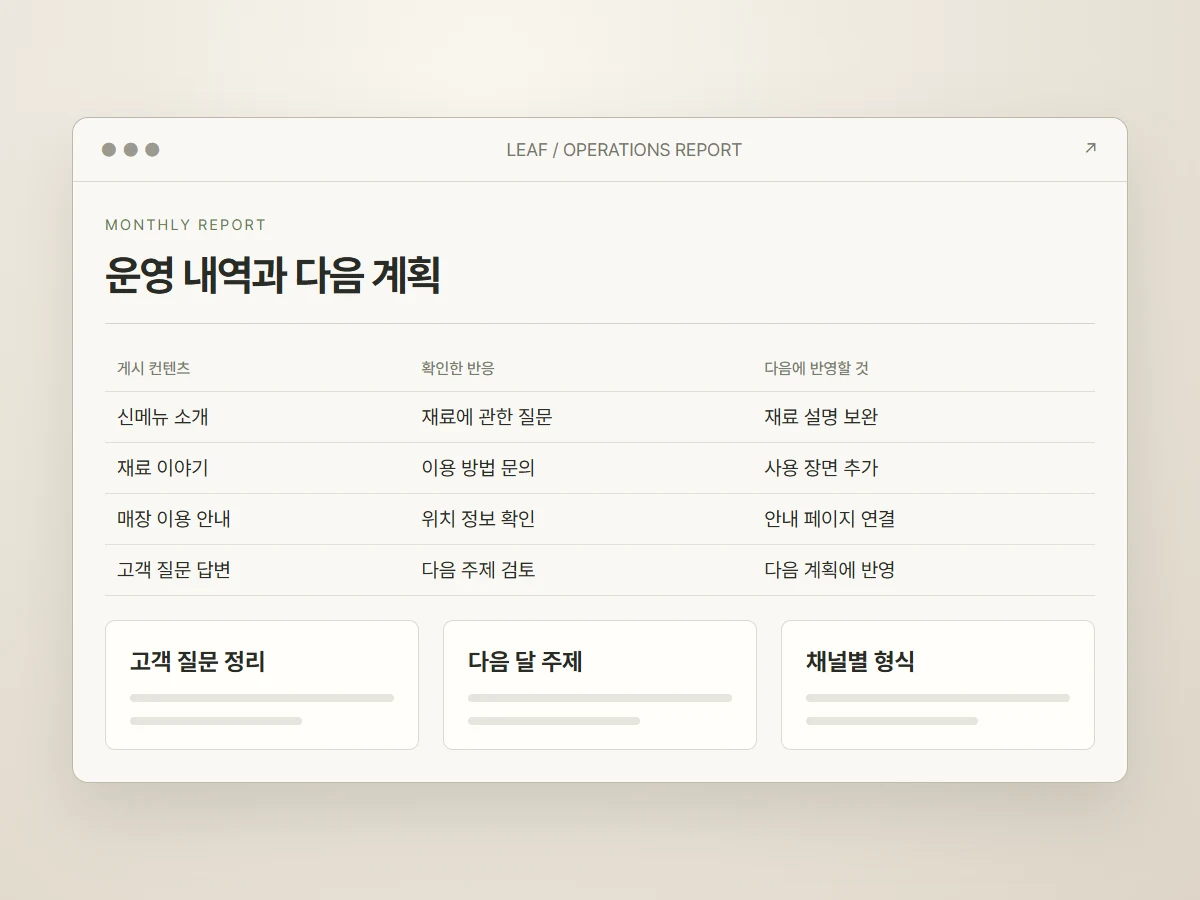
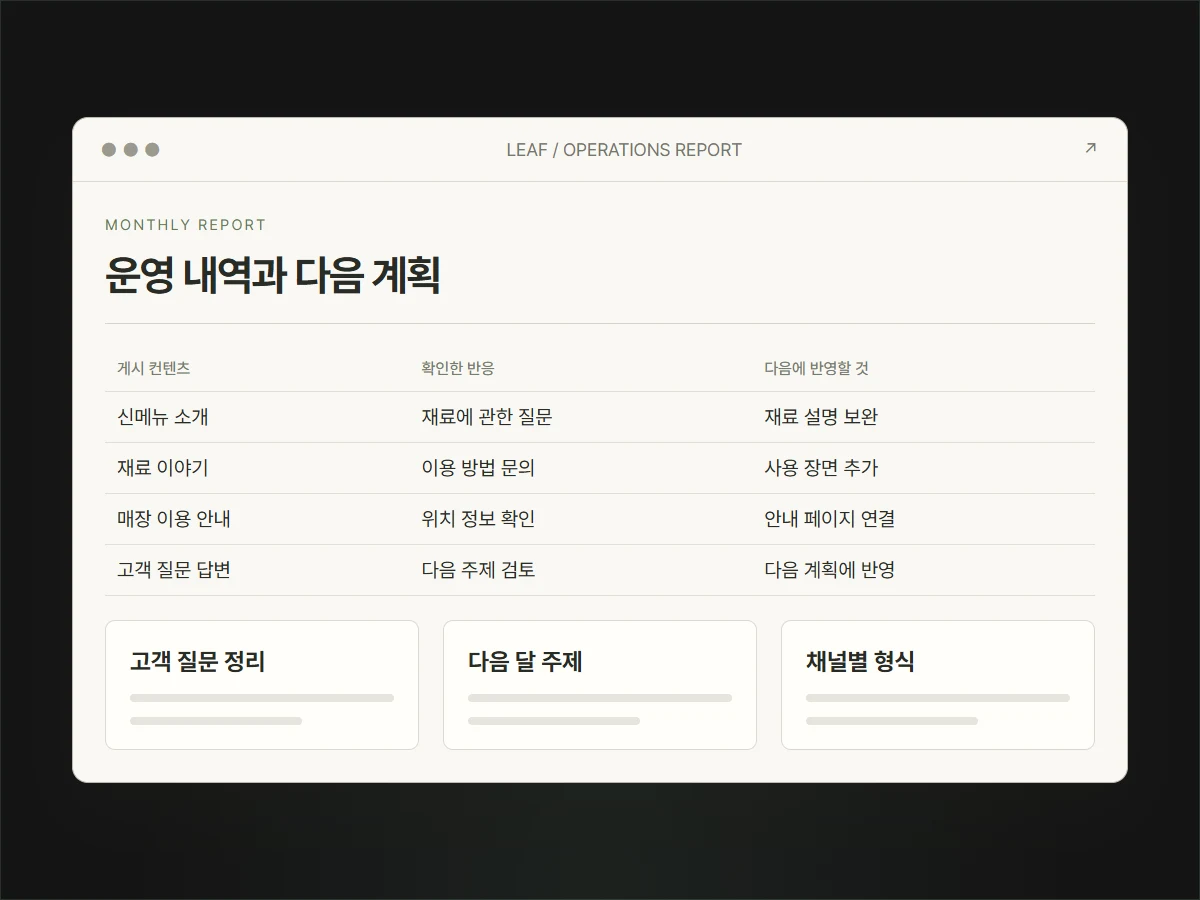
Fix marketing result surfaces and hero stage navigation

diff --git a/components/marketing/home.tsx b/components/marketing/home.tsx
@@ -13,9 +13,10 @@ import {
 import { monthlySteps, type MarketingId } from "@/lib/marketing-renewal";
 export function MarketingHome() {
   const [recommended, setRecommended] = useState<MarketingId | "">("sns");
+  const [stage, setStage] = useState(0);
   return (
     <div className="mk-home" data-recommended={recommended}>
-      <section className="mk-home-hero">
+      <section className="mk-home-hero" data-stage={stage}>
         <div className="mk-container">
           <p className="mk-eyebrow">AIO MAKE MARKETING</p>
           <h1>
@@ -35,7 +36,7 @@ export function MarketingHome() {
             <Link href="/marketing/contact">상담하기 ↗</Link>
           </div>
         </div>
-        <div className="mk-channel-ribbon">
+        <div className="mk-channel-ribbon" id="channel-preview">
           <MarketingPicture
             name="home-ribbon"
             alt="같은 브랜드의 인스타그램 피드, 블로그 글, 검색 답변이 나란히 이어지는 채널 화면"
@@ -43,10 +44,28 @@ export function MarketingHome() {
         </div>
         <div className="mk-container">
           <ol className="mk-journey">
-            <li>01 노출</li>
-            <li>02 유입</li>
-            <li>03 문의</li>
+            {["01 노출", "02 유입", "03 문의"].map((label, index) => (
+              <li key={label}>
+                <button
+                  type="button"
+                  aria-pressed={stage === index}
+                  aria-controls="channel-preview"
+                  onClick={() => setStage(index)}
+                >
+                  {label}
+                </button>
+              </li>
+            ))}
           </ol>
+          <p className="mk-caption" aria-live="polite">
+            {
+              [
+                "인스타그램에서 브랜드를 만납니다",
+                "블로그에서 자세한 정보를 확인합니다",
+                "검색 답변에서 문의할 곳으로 이어집니다",
+              ][stage]
+            }
+          </p>
           <p className="mk-caption">가상 브랜드 카페 리프 · 제작 방향 예시</p>
         </div>
       </section>

diff --git a/components/marketing/marketing.css b/components/marketing/marketing.css
@@ -2,7 +2,7 @@
 /* W-RW2: content studio spacing and type, scoped to marketing surfaces. */
 :is(.marketing-renewal, .mk-shell) {
   --mk-bg: #0d0b12;
-  --mk-panel: #17131e;
+  --mk-panel: var(--sd-surface);
   --mk-panel-soft: #211a2c;
   --mk-text: #f7f5f2;
   --mk-muted: #c0bbc9;
@@ -296,12 +296,12 @@
 }
 /* Hero and result screens */
 .mk-home-hero {
-  padding-block: 64px 0;
+  padding-block: 32px 0;
   text-align: center;
   overflow: hidden;
 }
 .mk-home-hero h1 {
-  margin: 20px 0 24px;
+  margin: 16px 0 20px;
 }
 .mk-home-hero .mk-actions {
   justify-content: center;
@@ -309,7 +309,7 @@
 }
 .mk-channel-ribbon {
   max-width: 1800px;
-  margin: 48px auto 0;
+  margin: 24px auto 0;
   padding: 0 24px;
 }
 .mk-picture {
@@ -334,6 +334,18 @@
   padding: 0;
   background: transparent;
   box-shadow: 0 30px 100px color-mix(in srgb, var(--mk-decor) 8%, transparent);
+  transition: transform 400ms ease;
+  transform: translateX(1.5%);
+}
+.mk-home-hero[data-stage="1"] .mk-channel-ribbon .mk-picture {
+  transform: translateX(0);
+}
+.mk-home-hero[data-stage="2"] .mk-channel-ribbon .mk-picture {
+  transform: translateX(-1.5%);
+}
+.mk-journey button {
+  width: 100%;
+  text-align: center;
 }
 .mk-journey {
   display: grid;
@@ -1187,7 +1199,7 @@
     padding: 10px 14px;
   }
   .mk-home-hero {
-    padding-top: 48px;
+    padding-top: 24px;
   }
   .mk-home-hero h1 {
     font-size: var(--mk-display);
@@ -1202,10 +1214,17 @@
     left: 50%;
     transform: translateX(-50%);
     padding: 0;
-    margin-top: 32px;
+    margin-top: 20px;
   }
   .mk-channel-ribbon .mk-picture {
     aspect-ratio: 21/8;
+    transform: translateX(27%);
+  }
+  .mk-home-hero[data-stage="1"] .mk-channel-ribbon .mk-picture {
+    transform: translateX(0);
+  }
+  .mk-home-hero[data-stage="2"] .mk-channel-ribbon .mk-picture {
+    transform: translateX(-27%);
   }
   .mk-journey li {
     padding: 14px 0;

diff --git a/components/marketing/blocks.tsx b/components/marketing/blocks.tsx
@@ -67,11 +67,11 @@ export function MarketingPicture({
       {(hero || name === "home-touchpoints") && (
         <source
           media="(max-width: 767px)"
-          srcSet={`/marketing-renewal/${name}-mobile.webp`}
+          srcSet={`/marketing-renewal/${name}-mobile.webp?v=rw2r`}
         />
       )}
       <Image
-        src={`/marketing-renewal/${name}.webp`}
+        src={`/marketing-renewal/${name}.webp?v=rw2r`}
         alt={alt}
         quality={90}
         width={hero ? 1600 : 1200}

diff --git a/styles/detail-tokens.css b/styles/detail-tokens.css
@@ -1,6 +1,7 @@
 /* Shared detail-page values copied from content-site/theme.css (W-RW2).
    Additive tokens only: other divisions opt in without changing content studio. */
 :root {
+  --sd-surface: #141414;
   --sd-container: 1440px;
   --sd-gutter: clamp(20px, 4vw, 56px);
   --sd-section: clamp(64px, 7vw, 96px);

diff --git a/docs/renewal/W-RW2R.md b/docs/renewal/W-RW2R.md
@@ -1,0 +1,26 @@
+# W-RW2R 마케팅 마지막 수정
+
+갱신일: 2026-10-29 · 개정번호: 1 · 상태: PC2 Codex W-RW2R · 로컬 구현·검증 pass, 운영 반영 전
+
+- 명세: `C:/AIO-PC2/30-handoff/15_메인_리뉴얼/47_명세_W-RW2R.MD` 개정 1 전체.
+- 작업: `work/AIO-rw-marketing-261029`, 기준 `c7496c8`, 기존 변경 없음.
+- 홈 채널 띠·터치포인트·상세 4종 히어로/결과물/서비스 카드의 바깥 이미지 배경을 컨텐츠 표면과 같은 #141414로 재생성했다. 밝은 화면 카드는 유지하고 초록은 얇은 테두리와 아래 광원으로 제한했다. 총 27개 WebP를 갱신했다.
+- `--sd-surface` 공유 토큰을 마케팅 판에 적용했다. 이미지 생성 소스도 동일한 색을 사용한다.
+- 히어로 위 여백과 채널 띠 간격을 줄였다. 첫 화면에서 띠 시작 위치는 PC 1440×1000에서 y=507.8, 모바일 390×844에서 y=440.0이며 카드 윗부분이 보인다.
+- 노출/유입/문의 정적 목록을 aria-pressed 단계 버튼으로 바꾸었다. PC에서는 띠가 좌우로 소폭 이동하고 모바일에서는 해당 채널이 중앙으로 이동한다. 설명도 함께 바뀌며 reduced-motion에서는 전환 효과를 제거한다.
+- 첫 캡처 직접 확인에서 Next 이미지 캐시의 이전 크림색 버전을 발견했다. 이미지 URL에 `v=rw2r`를 붙여 캐시를 구분하고, 모바일 원본 설명 대비를 수정했다. 이전 캡처는 `initial-cache-observation/`에 보존했다. 최종 브라우저 시험에는 버전 URL 및 화면의 실제 어두운 픽셀 확인을 추가했다.
+
+검증 순서: build → tsc → 변경 lint → 시험 → 브라우저 캡처/직접 열람.
+
+- build pass. 캐시 문제 수정 전/후 총 2회 순차 실행했다. 빌드와 서버를 동시에 실행하지 않았다.
+- `npm.cmd run typecheck` pass.
+- 변경 TSX 및 생성/QA 스크립트 ESLint pass. `git diff --check` pass.
+- 관련 기존 시험 `new-tab-links`, `home-marketing-sim`, `display-copy` 23/23 pass. 전체 저장소 시험은 이번에 실행하지 않았다.
+- Playwright: 홈·상세 4종·비교용 `/content`를 PC/모바일에서 검사한 12개 화면 모두 HTTP 200, 깨진 이미지 0, 가로 넘침 0. JS 런타임 오류 0.
+- 홈 3단계 선택 상태와 각기 다른 화면 이동 행렬을 PC/모바일에서 확인했다.
+- 홈/상세 첫 화면, 홈 변경 구간, 상세 히어로와 결과물, `/content` 나란히 비교를 캡처했다. 최종 비교 이미지와 PC/모바일 5종 검토 시트를 직접 열어 확인했다.
+- 서버는 포트 3117에 한 번에 하나만 실행했다. 최초 관찰/최종 검증 총 2회 순차 실행하고 각 검증 직후 finally에서 종료했다. 최종 PID 5184 종료 및 3117 리스너 없음 확인.
+
+증거: `C:/AIO-PC2/30-handoff/15_메인_리뉴얼/captures_RW2/r2/`의 build.log, tsc.log, lint.log, tests.log, browser-results.json, server-stopped.json 및 PNG.
+
+PC2 개발/React 지침 적용. G: 공유 시작지침은 Access denied로 읽지 못했다. 로컬 명세와 PC2 로컬 지침을 기준으로 수행했으며 공유 정본 확인 완료로 표시하지 않는다. 실제 기기 검증·운영 배포·사용자 시각 승인은 포함하지 않는다. push·PR·배포 없음.
